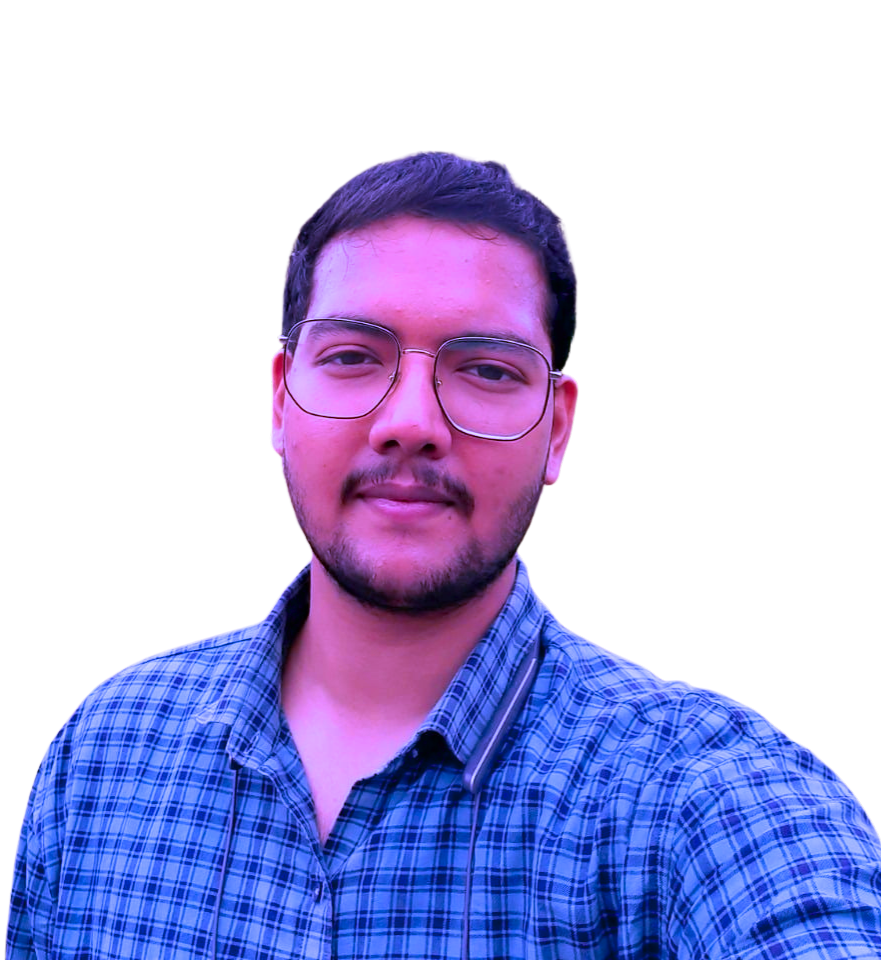
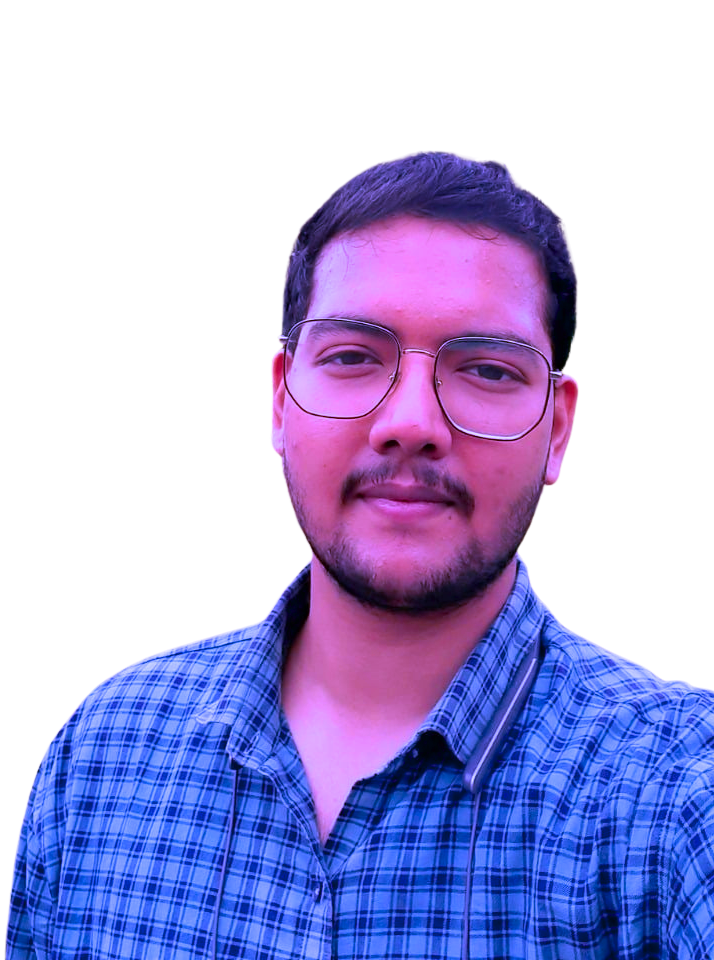
added and defined every section thing

diff --git a/index.html b/index.html
@@ -376,6 +376,7 @@
 </section>
 <!--blog-section-->
 <!-- TRACK SECTION ENDS -->
+<br>
     <section class="team-section padding-bottom">
         <div class="container">
             <div class="section-heading text-center mb-40 wow fade-in-bottom" data-wow-delay="200ms">
@@ -390,7 +391,7 @@
                         <div class="swiper-slide">
                             <div class="team-item">
                                 <div class="team-thumb">
-                                    <img src="assets/img/Team/gyan-xbg-2.png" alt="thumb" class="team-image">
+                                    <img src="assets/img/team-1.png" alt="thumb" class="team-image">
                                     <div class="shape-wrap">
                                         <div class="shape shape-1"></div>
                                         <div class="shape shape-2"></div>
@@ -418,7 +419,7 @@
                                 </div>
                                 <div class="team-content">
                                     <span class="whte-shape"></span>
-                                    <h3><a href="player-details.html">Félix Lengyel</a></h3>
+                                    <h3><a href="player-details.html">Kanishak Chaurishia</a></h3>
                                     <h4>Valorant</h4>
                                 </div>
                             </div>
@@ -436,7 +437,7 @@
                                 </div>
                                 <div class="team-content">
                                     <span class="whte-shape"></span>
-                                    <h3><a href="player-details.html">Sasha Hostyn</a></h3>
+                                    <h3><a href="player-details.html">Harshit Jain</a></h3>
                                     <h4>StarCraft II</h4>
                                 </div>
                             </div>
@@ -454,7 +455,7 @@
                                 </div>
                                 <div class="team-content">
                                     <span class="whte-shape"></span>
-                                    <h3><a href="player-details.html">Zaqueri Black</a></h3>
+                                    <h3><a href="player-details.html">Himanshu verma</a></h3>
                                     <h4>Call of Duty</h4>
                                 </div>
                             </div>
@@ -472,7 +473,25 @@
                                 </div>
                                 <div class="team-content">
                                     <span class="whte-shape"></span>
-                                    <h3><a href="player-details.html">Fredrik Johanson</a></h3>
+                                    <h3><a href="player-details.html">Vanshika Agrawal</a></h3>
+                                    <h4>Counter Strike</h4>
+                                </div>
+                            </div>
+                        </div>
+                        <div class="swiper-slide">
+                            <div class="team-item">
+                                <div class="team-thumb">
+                                    <img src="assets/img/team-5.png" alt="thumb">
+                                    <div class="shape-wrap">
+                                        <div class="shape shape-1"></div>
+                                        <div class="shape shape-2"></div>
+                                        <div class="shape shape-3"></div>
+                                        <div class="shape shape-4"></div>
+                                    </div>
+                                </div>
+                                <div class="team-content">
+                                    <span class="whte-shape"></span>
+                                    <h3><a href="player-details.html">Sajal Garg</a></h3>
                                     <h4>Counter Strike</h4>
                                 </div>
                             </div>
@@ -485,9 +504,9 @@
             </div>
         </div>
     </section> <!-- /.team-section -->
-
+<!-- EMAIL SECTION -->
     <section class="contact-section padding-bottom">
-        <div class="container">
+        <!-- <div class="container">
             <div class="row align-items-center">
                 <div class="col-md-6 sm-padding">
                     <div class="section-heading">
@@ -524,7 +543,7 @@
                     </div>
                 </div>
             </div>
-        </div>
+        </div> -->
     </section><!-- /.contact-section -->
 
     <div class="sponsor-section padding-bottom">
@@ -557,7 +576,7 @@
     </div><!-- /.sponsor-section -->
 
     <section class="shop-section padding-bottom">
-        <div class="container">
+        <!-- <div class="container">
             <div class="section-heading mb-40 text-center wow fade-in-bottom" data-wow-delay="200ms">
                 <h3>Online Gaming Shop</h3>
                 <h2>Explore Our <span>Gears</span></h2>
@@ -693,16 +712,115 @@
                             </div>
                         </div>
                     </div>
-                    <!-- Carousel Arrows -->
+                     //// Carousel Arrows 
                     <div class="swiper-nav swiper-next"><i class="las la-long-arrow-alt-right"></i></div>
                     <div class="swiper-nav swiper-prev"><i class="las la-long-arrow-alt-left"></i></div>
                 </div>
             </div>
-        </div>
+        </div> -->
     </section><!-- /.shop-section -->
-
-    
-
+<!-- FAQ SECTION -->
+<section class="faq-section">
+    <div class="container">
+        <!-- <div class="row"> -->
+            <div class="section-heading text-center mb-40 wow fade-in-bottom" data-wow-delay="200ms">
+                <h3>Any Doubts</h3>
+                <h2>SOME <span>FAQ</span></h2>
+                <p>Hope you find the answers here</p>
+            </div>
+        <!-- </div> -->
+        <div class="row">
+            <div class="col-lg-12 sm-padding">
+                <div class="accordion faq-accordion" id="faq-accordion">
+                    <div class="accordion-item">
+                        <h2 class="accordion-header" id="headingOne">
+                            <button class="accordion-button" type="button" data-bs-toggle="collapse"
+                                data-bs-target="#collapseOne" aria-expanded="true" aria-controls="collapseOne">Comming Soon</button>
+                        </h2>
+                        <div id="collapseOne" class="accordion-collapse collapse show" aria-labelledby="headingOne"
+                            data-bs-parent="#faq-accordion">
+                            <div class="accordion-body">
+                                <p>COMMING SOON</p>
+                            </div>
+                        </div>
+                    </div>
+                    <!-- <div class="accordion-item">
+                        <h2 class="accordion-header" id="headingTwo">
+                            <button class="accordion-button collapsed" type="button" data-bs-toggle="collapse"
+                                data-bs-target="#collapseTwo" aria-expanded="false" aria-controls="collapseTwo">What
+                                is the best 4K monitor for gaming?</button>
+                        </h2>
+                        <div id="collapseTwo" class="accordion-collapse collapse" aria-labelledby="headingTwo"
+                            data-bs-parent="#faq-accordion">
+                            <div class="accordion-body">
+                                <p>PC gamers put heavy demands on a monitor. The games are visually complex, so
+                                    large, high-resolution displays are required for realistic game play. Imagery
+                                    changes rapidly thanks to highly advanced graphics processors (GPUs), so it’s
+                                    important that the monitor can keep up to avoid frame disruptions... Read Best
+                                    Gaming Monitor</p>
+                            </div>
+                        </div>
+                    </div> -->
+                    <!-- <div class="accordion-item">
+                        <h2 class="accordion-header" id="headingThree">
+                            <button class="accordion-button collapsed" type="button" data-bs-toggle="collapse"
+                                data-bs-target="#collapseThree" aria-expanded="false"
+                                aria-controls="collapseThree">Understanding Graphics Cards for Gaming
+                                Laptops?</button>
+                        </h2>
+                        <div id="collapseThree" class="accordion-collapse collapse" aria-labelledby="headingThree"
+                            data-bs-parent="#faq-accordion">
+                            <div class="accordion-body">
+                                <p>PC gamers put heavy demands on a monitor. The games are visually complex, so
+                                    large, high-resolution displays are required for realistic game play. Imagery
+                                    changes rapidly thanks to highly advanced graphics processors (GPUs), so it’s
+                                    important that the monitor can keep up to avoid frame disruptions... Read Best
+                                    Gaming Monitor</p>
+                            </div>
+                        </div>
+                    </div> -->
+                    <!-- <div class="accordion-item">
+                        <h2 class="accordion-header" id="headingFour">
+                            <button class="accordion-button collapsed" type="button" data-bs-toggle="collapse"
+                                data-bs-target="#collapseFour" aria-expanded="false"
+                                aria-controls="collapseFour">How much RAM do I need for gaming?</button>
+                        </h2>
+                        <div id="collapseFour" class="accordion-collapse collapse" aria-labelledby="headingFour"
+                            data-bs-parent="#faq-accordion">
+                            <div class="accordion-body">
+                                <p>PC gamers put heavy demands on a monitor. The games are visually complex, so
+                                    large, high-resolution displays are required for realistic game play. Imagery
+                                    changes rapidly thanks to highly advanced graphics processors (GPUs), so it’s
+                                    important that the monitor can keep up to avoid frame disruptions... Read Best
+                                    Gaming Monitor</p>
+                            </div>
+                        </div>
+                    </div> -->
+                    <!-- <div class="accordion-item">
+                        <h2 class="accordion-header" id="headingFive">
+                            <button class="accordion-button collapsed" type="button" data-bs-toggle="collapse"
+                                data-bs-target="#collapseFive" aria-expanded="false"
+                                aria-controls="collapseFive">What are Some Best Free Game Apps for Android?</button>
+                        </h2>
+                        <div id="collapseFive" class="accordion-collapse collapse" aria-labelledby="headingFive"
+                            data-bs-parent="#faq-accordion">
+                            <div class="accordion-body">
+                                <p>PC gamers put heavy demands on a monitor. The games are visually complex, so
+                                    large, high-resolution displays are required for realistic game play. Imagery
+                                    changes rapidly thanks to highly advanced graphics processors (GPUs), so it’s
+                                    important that the monitor can keep up to avoid frame disruptions... Read Best
+                                    Gaming Monitor</p>
+                            </div>
+                        </div>
+                    </div> -->
+                </div>
+            </div>
+            </div>
+            <!--Sidebar-->
+        </div>
+    </div>
+</section><!-- /.faq-section-->
+<!-- FAQ SECTION ENDS-->
     <footer class="footer-section">
         <div class="container">
             <div class="row footer-items">
@@ -725,10 +843,10 @@
                             <h3>Usefull Links</h3>
                         </div>
                         <ul class="footer-links">
-                            <li><a href="upcoming-matches.html">Tournaments</a></li>
-                            <li><a href="faq-page.html">Help Center</a></li>
-                            <li><a href="about.html">Privacy and Policy</a></li>
-                            <li><a href="about.html">Terms of Use</a></li>
+                            <li><a href="upcoming-matches.html">Become Sponsor</a></li>
+                            <li><a href="faq-page.html">Brochure</a></li>
+                            <li><a href="about.html">Code of Conduct</a></li>
+                            <li><a href="about.html">Rules</a></li>
                             <li><a href="contact.html">Contact Us</a></li>
                         </ul>
                     </div>
@@ -739,9 +857,9 @@
                             <h3>Contact Us</h3>
                         </div>
                         <ul class="footer-contact">
-                            <li><span>Location:</span>153 Williamson Plaza, Maggieberg, MT 09514</li>
-                            <li><span>Join Us:</span>Info@YourGmail24.com</li>
-                            <li><span>Phone:</span>+1 (062) 109-9222</li>
+                            <li><span>Location:</span>Delhi NCR</li>
+                            <li><span>Join Us:</span>devstation@gmail.com</li>
+                            <li><span>Phone:</span>+91 DON'T SPAM </li>
                         </ul>
                     </div>
                 </div>
@@ -766,7 +884,7 @@
         </div>
         <div class="copyright-wrap">
             <div class="container">
-                <p>© <span id="currentYear"></span> ThemeEaster All Rights Reserved.</p>
+                <p>© <span id="currentYear"></span> HHHG x Devstation</p>
             </div>
         </div>
         <!--copyright-wrap-->

diff --git a/assets/css/main.css b/assets/css/main.css
@@ -814,9 +814,9 @@
 }
 
 /*** 7.1 - Team Shape ***/
-.team-image{
+/* .team-image{
     width: 15em;
-}
+} */
 
 .team-thumb {
     position: relative;
